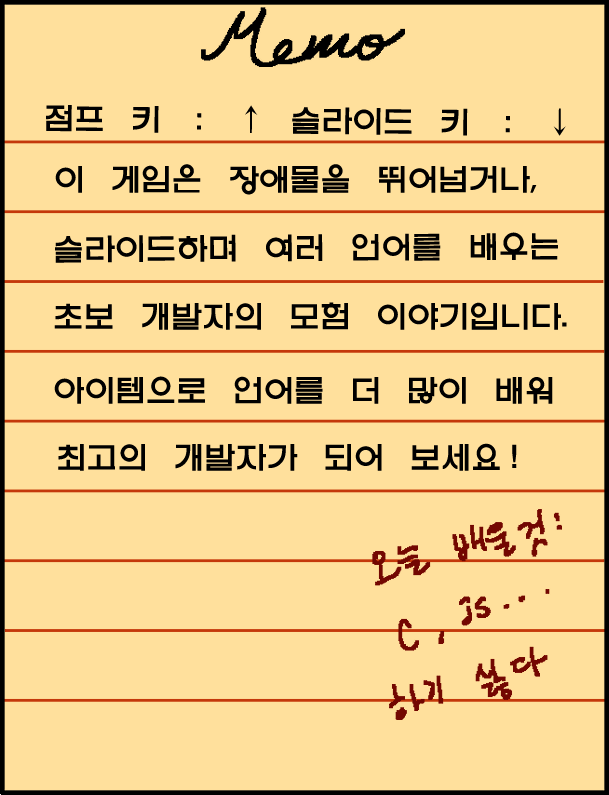
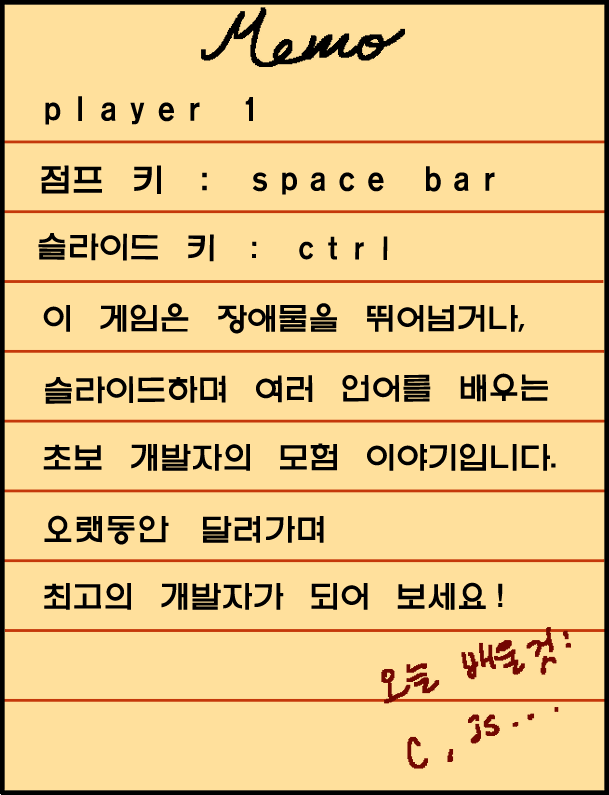
게임 설명

diff --git a/html/help.html b/html/help.html
@@ -8,7 +8,7 @@
 <body style = "background-color: beige;"  id="body">
 
     <div style="text-align: center; position: relative;">
-        <img src = "../image/gameHelpBG.png">
+        <img id = "img" src = "../image/gameHelpBG.png">
 <!-- 
         <div style="left:100px; width: 450px; bottom: 140px;
         font-size: 1.8mm; position: absolute;"> -->
@@ -22,17 +22,34 @@
 
    <div style="text-align: center;">
          <button type="button"  id="gameBack_btn">
-        <img src="../image/../image/backDefault.png"></button>
+        <img src="../image/../image/backDefault.png">
+    </button>
+        <button type = "button" id = "gameNext_btn" onclick="changeImg()">
+            <img src = "../image/../image/gamenextDefault.png">
+        </button>
+        
    </div>
 
    <script src = "/js/help.js" type="text/javascript"></script>
 
-    <!-- <div class = "helptext">
-            <h1 style="">게임 설명</h1>
-            <button id="next_btn">다음</button>
-    <input type="button" value="뒤로 가기" onClick="history.go(-1)"> 
-        </div> -->
-        <!-- <script src="/js/help.js"></script> -->
+    <script>
+
+        let cnt = 0;
+
+        function changeImg(){
+
+            if(cnt%2==0){
+                document.getElementById("img").src = "../image/gameHelpBG.png";
+                cnt++;
+            }
+            
+            else{
+                document.getElementById("img").src = "../image/gameHelpBG1.png";
+                cnt++;
+            }
+        }
+
+    </script>
         
 
 </body>

diff --git a/html/gameend.html b/html/gameend.html
@@ -4,17 +4,34 @@
     <meta charset="UTF-8">
     <meta http-equiv="X-UA-Compatible" content="IE=edge">
     <meta name="viewport" content="width=device-width, initial-scale=1.0">
-    <script src = "/js/game.js"></script>
+    <script src = "/js/localStorageExam.js"></script>
     <title>Document</title>
+
+    <style>
+        .bg{
+            background-color: beige;
+        }
+        .endbg img {
+            vertical-align: middle;
+        }
+        .endtext {
+            padding: 5px 10px;
+            text-align: center;
+        }
+    </style>
 </head>
 <body>
     <!--local storage연동-->
-    <script>
-        let rank = localStorage.getItem(Number);
-        
-        
-
-    </script>
+    
+    <div class = "bg">
+        <div class = "endbg"><img src= "../image/../image/backDefault.png" alt = ""></div>
+            <div class = "endtext">
+                <script>
+                    storage.innerHTML = "";
+                    storage.innerHTML 
+                </script>
+            </div>
+    </div>
     
 </body>
 </html>

diff --git a/js/help.js b/js/help.js
@@ -4,7 +4,7 @@ body.height=innerHeight;
 
 let backbtn = document.querySelector('#gameBack_btn');
    backbtn.addEventListener('click', function(){
-   history.go(-1);
+      window.location.href = 'index.html';
     
 })
 

diff --git a/css/help.css b/css/help.css
@@ -4,3 +4,10 @@
      background: none;
      cursor: pointer;
 }
+
+#gameNext_btn{
+     margin-top:45px;
+     border: none;
+     background: none;
+     cursor: pointer;
+}
